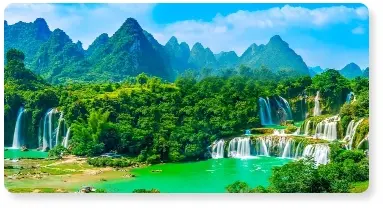
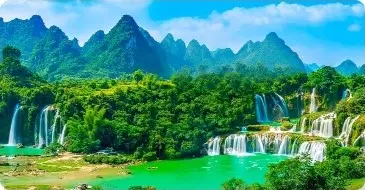
Fixed pictures` sizes, added shadow

diff --git a/src/scss/utils/_variables.scss b/src/scss/utils/_variables.scss
@@ -38,6 +38,7 @@ $socials-shadow-color: #00000045;
 // shadows
 $title-shadow: 0vw 0.833vw 1.092vw $title-shadow-color;
 $button-shadow: 0.26vw 0vw 0.364vw $button-shadow-color;
+$picture-shadow: 0.26vw 0.312vw 0.312vw $title-shadow-color;
 $pagination-text-shadow: 0.26vw 0vw 0.364vw $title-shadow-color;
 $hero-price-shadow: -0.416vw 0.728vw 1.404vw $title-shadow-color;
 $link-shadow: 0.26vw 0.728vw 0.78vw $link-hower-shadow-color;

diff --git a/src/scss/components/_hero-gallery.scss b/src/scss/components/_hero-gallery.scss
@@ -6,10 +6,15 @@
 
 .hero-gallery_list {
   display: inline-flex;
-  gap: 0.008vw;
+  gap: 0.832vw;
 }
 
 .hero-gallery_item {
+  overflow: hidden;
+
+  border-radius: 0.52vw;
+  box-shadow: $picture-shadow;
+
   @media screen and (min-width: $tablet-width) {
     width: 19.01vw;
   }

diff --git a/src/partials/components/hero-gallery.html b/src/partials/components/hero-gallery.html
@@ -23,7 +23,7 @@
         "
         src="/src/images/countries/vietnam/gallery/boat-def.jpg"
         min-width="320"
-        alt="A boat with the boatman on the lake"
+        alt="A boat with the woman on the lake"
         title="A boat"
         loading="lazy"
       />
